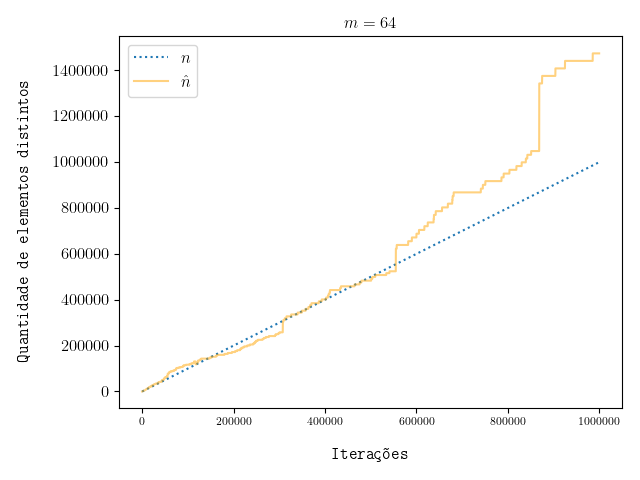
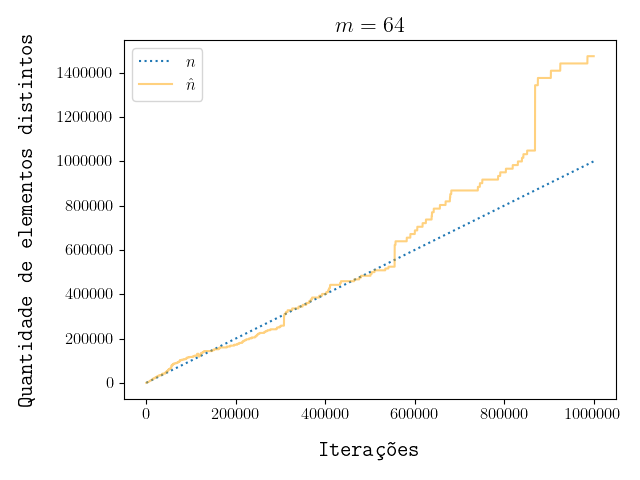
Revisa capítulo das Amostragens Adaptativas

diff --git a/monografia/conteudo/04-adaptive-sampling.tex b/monografia/conteudo/04-adaptive-sampling.tex
@@ -5,10 +5,11 @@
 
 Este capítulo aborda uma outra solução para o problema da contagem distinta aproximada. O 
 Capítulo~\ref{lab:flajolet-martin} apresentou o algoritmo da $\pcounting$, que estima o número de elementos distintos em 
-um fluxo de dados com desvio padrão em torno de $0.78 / \sqrt{m}$. 
+um fluxo de dados com desvio padrão em torno de $0{,}78 \mathbin{/} \sqrt{m}$. 
 
-O algoritmo das $\asampling$ tem um desvio padrão de aproximadamente $1.20 / \sqrt{m}$~\citep{adptive:sampling:90}. 
-As razões para estudarmos esse algoritmo mesmo que ele apresente um erro maior ficarão claras nas próximas seções.
+O algoritmo das $\asampling$ tem um desvio padrão de aproximadamente $1{,}20 \mathbin{/} \sqrt{m}$
+~\citep{adptive:sampling:90}. As razões para estudarmos esse algoritmo mesmo que ele apresente um erro maior ficarão 
+claras nas próximas seções.
 
 \section{Algoritmo das $\asampling$}
 \label{lab:chapter:04:01}
@@ -27,10 +28,10 @@ Quando essa lista tiver mais que $m$ elementos, incrementamos $\delta$ em 1 e pa
 somente elementos com prefixo $0^{\delta + 1}$.
 
 Agora, suponha que em um dado momento do algoritmo, a lista tenha tamanho $l$ e estamos mantendo somente elementos com 
-prefixos $0^{\delta}$. A probabilidade de um elemento ter um prefixo dessa forma é $1 / 2^{\delta}$, e consequentemente,
-esperamos que a cada $2^{\delta}$ itens, pelo menos um item tenha um prefixo desse formato. Assim, se nossa lista tem
-$l$ elementos com prefixo $0^{\delta}$, então devemos ter examinado pelo menos $2^{\delta} l$ itens, e este valor é 
-justamente a estimativa para a quantidade de valores distintos.
+prefixos $0^{\delta}$. A probabilidade de um elemento ter um prefixo dessa forma é $1 \mathbin{/} 2^{\delta}$, e 
+consequentemente, esperamos que a cada $2^{\delta}$ itens, pelo menos um item tenha um prefixo desse formato. Assim, se 
+essa lista tem $l$ elementos com prefixo $0^{\delta}$, então devemos ter examinado pelo menos $2^{\delta} l$ itens, e 
+este valor é justamente a estimativa para a quantidade de valores distintos.
 
 O algoritmo $\AS$ recebe um fluxo $\Mbb$ com $n$ elementos distintos e um parâmetro $m$, que está relacionado com o 
 consumo de memória do algoritmo e sua precisão. O algoritmo usa uma função de hash $h$ para associar de forma uniforme 
@@ -96,7 +97,7 @@ $5 = 101_2$. Em seguida, podemos inserir $54 = 011011_2$ em $LIST$ e como novame
 incrementar $\delta$ e filtrar os itens da lista. A lista atual é 
 \[ \{ 36 = 001001_2, 108 = 0011011_2, 82 = 0100101_2, 54 = 011011_2 \} \ . \] 
 Manteremos somentes os valores cujos prefixos binários se iniciam com dois zeros e portanto, 
-\[ LIST = \{ 36 = 001001_2, 108 = 011011_2 \} \ . \]
+\[ LIST = \{ 36 = 001001_2, 108 = 0011011_2 \} \ . \]
 Por fim, o valor $10 = 0101_2$ não é inserido na lista. E a estimativa para a quantidade de elementos distintos em 
 $\Mbb$ é $2^{\delta} \times |LIST| = 2^2 \times 2 = 8$. Essa estimativa está cometendo um erro de um item, já que $\Mbb$
 tem 9 itens distintos. 
@@ -108,9 +109,10 @@ estimativa tem precisão de $100\%$. Isto é o principal diferencial do algoritm
 $\pcounting$, que como foi visto na Seção~\ref{sec:fm:low_estimates}, apresenta um erro muito grande quando queremos 
 estimar cardinalidades baixas.
 
-Outro fator importante de se destacar é que o estimador devolvido por $\AS$ é 
-\textbf{não-viesado}~\citep{adptive:sampling:90}. Essa característica está relacionada com o fato do algoritmo das 
-$\asampling$ poder estimar valores pequenos sem problemas.
+Outro ponto importante de se destacar é que o estimador devolvido por $\AS$ é 
+\textbf{não-viesado}~\citep{adptive:sampling:90}, ou seja, o valor esperado desse estimador coincide com a quantidade de 
+elementos distintos que se quer estimar. Essa característica está relacionada com o fato do algoritmo das $\asampling$
+poder estimar valores pequenos sem problemas.
 
 \newpage
 \section{Implementando $\asampling$}
@@ -156,9 +158,9 @@ forma, a complexidade do método~\texttt{adiciona} é $O(1)$ amortizado.
 Por fim, falta esclarecer como foi codificada a verificação se um inteiro tem prefixo da forma $0^{\delta}$, ou em 
 outras palavras, se a representação binária de um inteiro começa com pelo menos $\delta$ zeros. Lembremos dessa forma, 
 da função $\rho$ definida na Seção~\ref{sec:flajolet-martin:algorithm}. Essa função recebe um inteiro $x$ e devolve a 
-posição indexada a partir do zero do bit menos significativo de $x$. Assim, $\rho(12) = \rho(0011_2) = 2$ e 
+posição indexada a partir do zero do bit ligado menos significativo de $x$. Assim, $\rho(12) = \rho(0011_2) = 2$ e 
 $\rho(24) = \rho(00011_2) = 3$. Note que a saída da função $\rho$ corresponde também a quantidade de bits zeros no 
-prefixo da representação binária de um inteiro. Podemos, portanto, aproveitar o método $p$ da classe 
+prefixo da representação binária de um inteiro. Podemos, portanto, aproveitar o método \texttt{p} da classe 
 \texttt{ProbabilisticCounting} para implementar o método \texttt{zeros\_no\_prefixo} e agora, para verificar se um 
 inteiro~$x$ tem prefixo da forma $0^{\texttt{delta}}$, basta testar se \texttt{zeros\_no\_prefixo(x)} é maior ou igual a
 \texttt{delta}.
@@ -172,7 +174,7 @@ de números pseudo-aleatórios dos experimentos do algoritmo da~$\pcounting$ foi
 foram aproveitados.
 
 Os resultados do primeiro experimento podem ser observados na Figura~\ref{fig:as:experimento:01}. É possível perceber
-que a estrutura com o parâmetro $m$ maior teve uma precisão melhor que a estrutura com $m$ menor ao longo de toda a 
+que a estrutura com o parâmetro $m$ maior teve no geral, uma precisão melhor que a estrutura com $m$ menor ao longo da 
 simulação. 
 
 \begin{figure}
@@ -192,10 +194,11 @@ simulação.
 
 
 Os gráficos com a evolução do erro relativo do experimento anterior estão na Figura~\ref{fig:as:experimento:01:erro}.
-O desvio padrão do algoritmo das $\asampling$ é $1.20/\sqrt{m}$. Portanto, para a estrutura com $m = 64$, o desvio 
-padrão é de $15\%$. As estimativas devolvidas por essa estrutura ficaram entre dois desvios padrões na maior parte da 
-simulação, apresentando um erro maior quando esta se aproximava do fim. Já a estrutura com $m = 1024$ tem desvio padrão 
-de $3{,}75\%$, e a simulação dela teve valores que ficaram dentro de um desvio na maior parte das iterações.
+O desvio padrão do algoritmo das $\asampling$ é $1{,}20 \mathbin{/} \sqrt{m}$. Portanto, para a estrutura com $m = 64$, 
+o desvio padrão é de $15\%$. As estimativas devolvidas por essa estrutura ficaram entre dois desvios padrões na maior 
+parte da simulação, apresentando um erro maior quando esta se aproximava do fim. Já a estrutura com $m = 1024$ tem 
+desvio padrão de $3{,}75\%$, e a simulação dela teve valores que ficaram dentro de um desvio na maior parte das 
+iterações.
 
 \begin{figure}
   \centering
@@ -253,7 +256,7 @@ desvio padrão. E podemos notar que com um valor de $m$ maior, a variância do a
     \includegraphics[width=\linewidth, height=4cm]{figuras/adaptive_sampling_variance_1024.png}
     \label{fig:as:experimento:02:1024}
   \end{subfigure}
-  \caption{Segundo experimento do algoritmo $\AS$. Foram realizadas dez mil simulações e em cada simulação, foram 
+  \caption{Segundo experimento do algoritmo $\AS$. Foram realizadas dez mil simulações, e em cada simulação, foram 
     inseridos em estruturas~\texttt{AdaptiveSampling} com $m = 64$ e $m = 1024$, um milhão de inteiros de~64 bits 
     gerados uniformemente. Os resultados foram utilizados para a construção dos histogramas de frequência acima. }
   \label{fig:as:experimento:02}
@@ -264,8 +267,7 @@ algoritmo tem pontos interessantes, como se basear em padrões de bits para cons
 fluxos com poucos elementos. Porém, a principal desvantagem dessa solução é o consumo de memória. Se considerarmos uma
 aplicação que precise lidar com hashes de 32~bits, então o consumo de memória da estrutura~\texttt{AdaptiveSampling} 
 seria de pelos menos $32 \times m$~bits no pior caso, quando a lista $LIST$ passa a ter mais que $m$ elementos. Esse
-custo é o mesmo que o do algoritmo~$\pcounting$ quando $L = 32$. Dessa forma, as $\asampling$, que têm um desvio maior
-que a $\pcounting$, têm também um consumo de espaço pior. 
+custo é o mesmo que o do algoritmo~$\pcounting$ quando $L = 32$.
 
 Para que esse gasto de memória fosse reduzido sem que se perdesse muita precisão, demorou mais de 20 anos desde a 
 criação da $\pcounting$. Veremos na próxima seção como podemos reduzir ainda mais esse consumo.

diff --git a/estruturas/adaptive_sampling/run_adaptive_sampling_simulation_01.py b/estruturas/adaptive_sampling/run_adaptive_sampling_simulation_01.py
@@ -26,7 +26,7 @@ def constroi_grafico(
     m: int,
     inicio: int = 0,
     fim: int = -1,
-    mostra_x_label=True,
+    mostra_y_label=True,
 ):
     _, ax = plt.subplots()
     ax.plot(
@@ -43,13 +43,14 @@ def constroi_grafico(
         alpha=0.5,
     )
 
-    if mostra_x_label:
-        ax.set_ylabel("Quantidade de elementos distintos", labelpad=15)
+    if mostra_y_label:
+        ax.set_ylabel("Quantidade de elementos distintos", labelpad=15, fontsize=16)
 
-    ax.set_xlabel("Iterações", labelpad=15)
+    ax.set_xlabel("Iterações", labelpad=15, fontsize=16)
     ax.legend()
-    ax.set_title(rf"$m = {m}$", fontsize=12)
-    ax.tick_params(axis="x", labelsize=8)
+    ax.set_title(rf"$m = {m}$", fontsize=16)
+    ax.tick_params(axis="x", labelsize=12)
+    ax.tick_params(axis="y", labelsize=12)
     plt.ticklabel_format(style="plain")
     plt.tight_layout()
     plt.show()
@@ -62,7 +63,7 @@ def constroi_grafico_erro(
     inicio: int = 0,
     fim: int = -1,
     erro_esperado: float = 0,
-    mostra_x_label=True,
+    mostra_y_label=True,
 ):
     erros: List[int] = []
 
@@ -110,13 +111,14 @@ def constroi_grafico_erro(
         ax.set_yticks([-2 * erro_esperado, -erro_esperado, 0.0, erro_esperado, 2 * erro_esperado])
         ax.tick_params(axis="y")
 
-    if mostra_x_label:
-        ax.set_ylabel("Erro Relativo", labelpad=15)
+    if mostra_y_label:
+        ax.set_ylabel("Erro Relativo", labelpad=15, fontsize=16)
 
-    ax.set_xlabel("Iterações", labelpad=15)
+    ax.set_xlabel("Iterações", labelpad=15, fontsize=16)
     ax.legend()
-    ax.set_title(rf"$m = {m}$", fontsize=12)
-    ax.tick_params(axis="x", labelsize=8)
+    ax.set_title(rf"$m = {m}$", fontsize=16)
+    ax.tick_params(axis="x", labelsize=12)
+    ax.tick_params(axis="y", labelsize=12)
     plt.ticklabel_format(style="plain")
     plt.tight_layout()
     plt.show()
@@ -125,7 +127,7 @@ def constroi_grafico_erro(
 def experimento(
     M: int,
     erro_esperado: float = 0,
-    mostra_x_label=True,
+    mostra_y_label=True,
 ):
     random.seed(0)
     adaptive_sampling = AdaptiveSampling(m=M)
@@ -148,8 +150,8 @@ def experimento(
 
     print(time.time() - start_time)
 
-    constroi_grafico(tamanhos, respostas, M)
-    constroi_grafico_erro(tamanhos, respostas, M, erro_esperado=erro_esperado)
+    constroi_grafico(tamanhos, respostas, M, mostra_y_label=mostra_y_label)
+    constroi_grafico_erro(tamanhos, respostas, M, erro_esperado=erro_esperado, mostra_y_label=mostra_y_label)
     constroi_grafico(tamanhos, respostas, M, fim=M * 4)
     constroi_grafico_erro(
         tamanhos,
@@ -157,7 +159,7 @@ def experimento(
         M,
         fim=M * 4,
         erro_esperado=erro_esperado,
-        mostra_x_label=mostra_x_label,
+        mostra_y_label=mostra_y_label,
     )
 
 

diff --git a/estruturas/adaptive_sampling/plot_adaptive_sampling_simulation_02.py b/estruturas/adaptive_sampling/plot_adaptive_sampling_simulation_02.py
@@ -73,11 +73,12 @@ if __name__ == "__main__":
     plt.axvline(x=config["expected_lower_bound_02"], linestyle=":")
     plt.axvline(x=config["expected_upper_bound_01"], linestyle=":")
     plt.axvline(x=config["expected_upper_bound_02"], linestyle=":")
-    ax.set_xlabel("Estimativas", labelpad=15)
-    ax.set_ylabel("Frequência", labelpad=15)
+    ax.set_xlabel("Estimativas", labelpad=15, fontsize=16)
+    ax.set_ylabel("Frequência", labelpad=15, fontsize=16)
     ax.set_xticks([estimates[0], *config["xticks"], estimates[-1]])
-    ax.set_title(rf"$m = {M}$", fontsize=12)
-    ax.tick_params(axis="x", labelsize=8)
+    ax.set_title(rf"$m = {M}$", fontsize=16)
+    ax.tick_params(axis="x", labelsize=10)
+    ax.tick_params(axis="y", labelsize=10)
     plt.ticklabel_format(style="plain")
     plt.tight_layout()
     plt.show()
